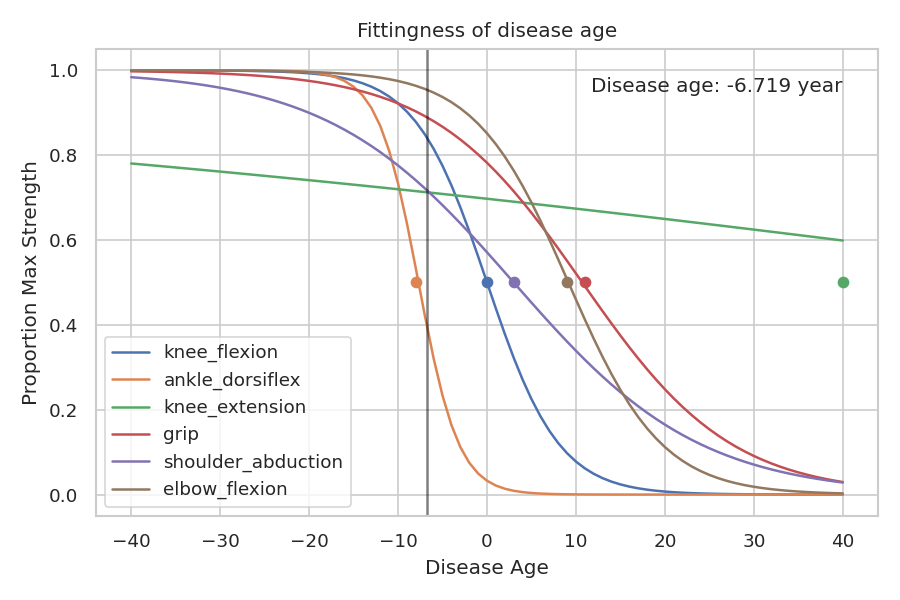
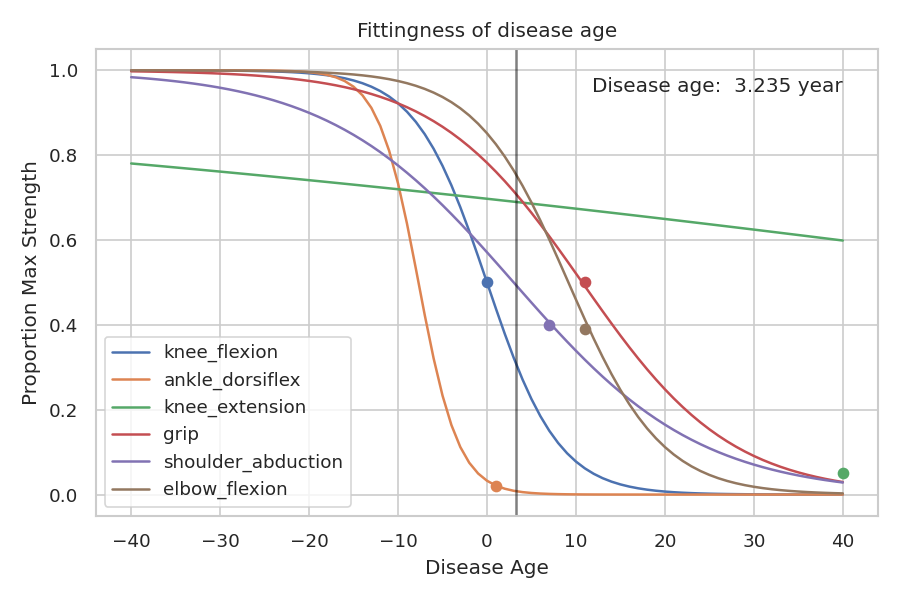
light explanation is incorporated.

diff --git a/client/src/components/gne_description.component.tsx b/client/src/components/gne_description.component.tsx
@@ -1,0 +1,55 @@
+import React, { useEffect, useState } from 'react'
+import test_img from '../img/test.png'
+import Latex from 'react-latex-next'
+
+export function GNEDescription(){
+  let model_equation = '$ L = \\prod_{k} P(Y_{i,k})$, <br /> where <br />'+
+    '$Y_{i,k} \\sim N(\\mu_{i,k}, (\\sigma_k \\mu_{i,k})^2 + \\delta^2 ) )$, <br />' + 
+    '$\\mu_{i, k} = logit^{-1}(\\theta_k + \\beta_k(\\alpha_i))$.' 
+
+  return(
+    <React.Fragment>
+      <h2> Description of this model </h2>
+      <p>
+        !! Caution!!  : This modling is unofficial one. Be careful to use the result. <br /> <br />
+        This modeling comes from &nbsp;
+        <a href="https://doi.org/10.1002/sim.8050">
+          Bayesian model of disease progression in GNE myopathy  
+        </a>.  <br />
+        As the authors estimated the decay function of each muscle, 
+        use this function is true course of decay function, 
+        and estimate "disease age" from one cross-sectional data.<br />
+        "Disease age" is estimated with the maximum likelihood estimation method,
+        with the model, 
+        
+        <p className="text-center">
+          <Latex>
+            {model_equation}
+          </Latex>
+        </p>
+        Estimation is done by "L-BFGS-B" method implemented in scipy's minimize method. <br /><br />
+
+        <h3> Figure Explanation </h3>
+        The following picture is a sample result of this fitting. 
+        Each curve represents a decay function of each muscle.
+        This curve is irrelevalent to chrolonogical age, so that estimation is needed.
+        Each point represents a each percentage point aligned with nearest point of  disease age. 
+        The black vertical line is an estimated disease age, 
+        which is displayed in the right-top of the figure.
+      </p>
+      
+      
+      <div className="text-center">
+        <img 
+          src={test_img} 
+          style={{border: "1px #000000 solid"}} 
+          alt="Fitting results"
+        /> <br />
+      </div>
+      <p>
+        <br />
+      </p>
+    </React.Fragment>
+
+  )
+}

diff --git a/client/src/components/gne_myopathy.component.tsx b/client/src/components/gne_myopathy.component.tsx
@@ -5,6 +5,7 @@ import { useForm } from 'react-hook-form'
 import { ModelService } from '../services/modeling.service'
 import { Form } from '../helpers/types.helper'
 import { FormRow, SubmitButton } from '../helpers/form.helper' 
+import { GNEDescription } from './gne_description.component'
 import test_img from '../img/test.png'
 
 function ValueForm(props:{
@@ -12,7 +13,8 @@ function ValueForm(props:{
 }){
   const require_json = {
     required: 'Need input',
-    validate: (v:number) => (v > 0 && v < 100) || 'range is from 0 to 100'
+    validate: (v:string) => 
+      (parseInt(v) > 0 && parseInt(v) < 100) || 'range is from 0 to 100'
   }
   return (
     <FormRow 
@@ -64,14 +66,15 @@ function GNEFormResult () {
       )
     } else {
       return(
-        <img 
-          src={state.url} 
-          alt="picture"
-          style={{border: "1px #000000 solid"}} 
-        />
+        <div className="text-center">
+          <img 
+            src={state.url} 
+            alt="picture"
+            style={{border: "1px #000000 solid"}} 
+          />
+        </div>
       )
     }
-
   }
   return(
     <div>
@@ -104,29 +107,18 @@ function GNEFormResult () {
   )
 }
 
-function Description(){
-  return(
-    <React.Fragment>
-      <h2> Description </h2>
-      Here is a description of this modeling.
-      <img 
-        src={test_img} 
-        style={{border: "1px #000000 solid"}} 
-        alt="Fitting results"
-      /> <br />
-      Test.
-    </React.Fragment>
 
-  )
-
-}
 
 function GNEMyopathyPage(){
   return(
     <div className="container">
       <h1> GNE myopathy - Estimating "disease age" from QMT.</h1>
+      <p>
+      Input the percetage (%) of muscle strength.  
+
+      </p>
       <GNEFormResult />
-      <Description /> 
+      <GNEDescription /> 
     </div>
   )
 }

diff --git a/client/src/App.tsx b/client/src/App.tsx
@@ -11,6 +11,12 @@ import './styles/_index.sass'
 function App() {
   return (
     <Router>
+      <Helmet>
+        <link
+            href="//cdnjs.cloudflare.com/ajax/libs/KaTeX/0.9.0/katex.min.css"
+            rel="stylesheet"
+        />
+      </Helmet>
       <Switch>
         <Route exact path='/' component ={Top} />
         <Route exact path='/gne-myopathy' component ={GNEPages} />

diff --git a/client/src/components/top.component.tsx b/client/src/components/top.component.tsx
@@ -6,7 +6,7 @@ import {
 export function Top(){
   return(
     <div className="container">
-      <h1>Akitoshi's modeling site</h1>
+      <h1>Akitoshi's Modeling site</h1>
       <div>
         - &nbsp; 
         <Link to="/gne-myopathy" >
